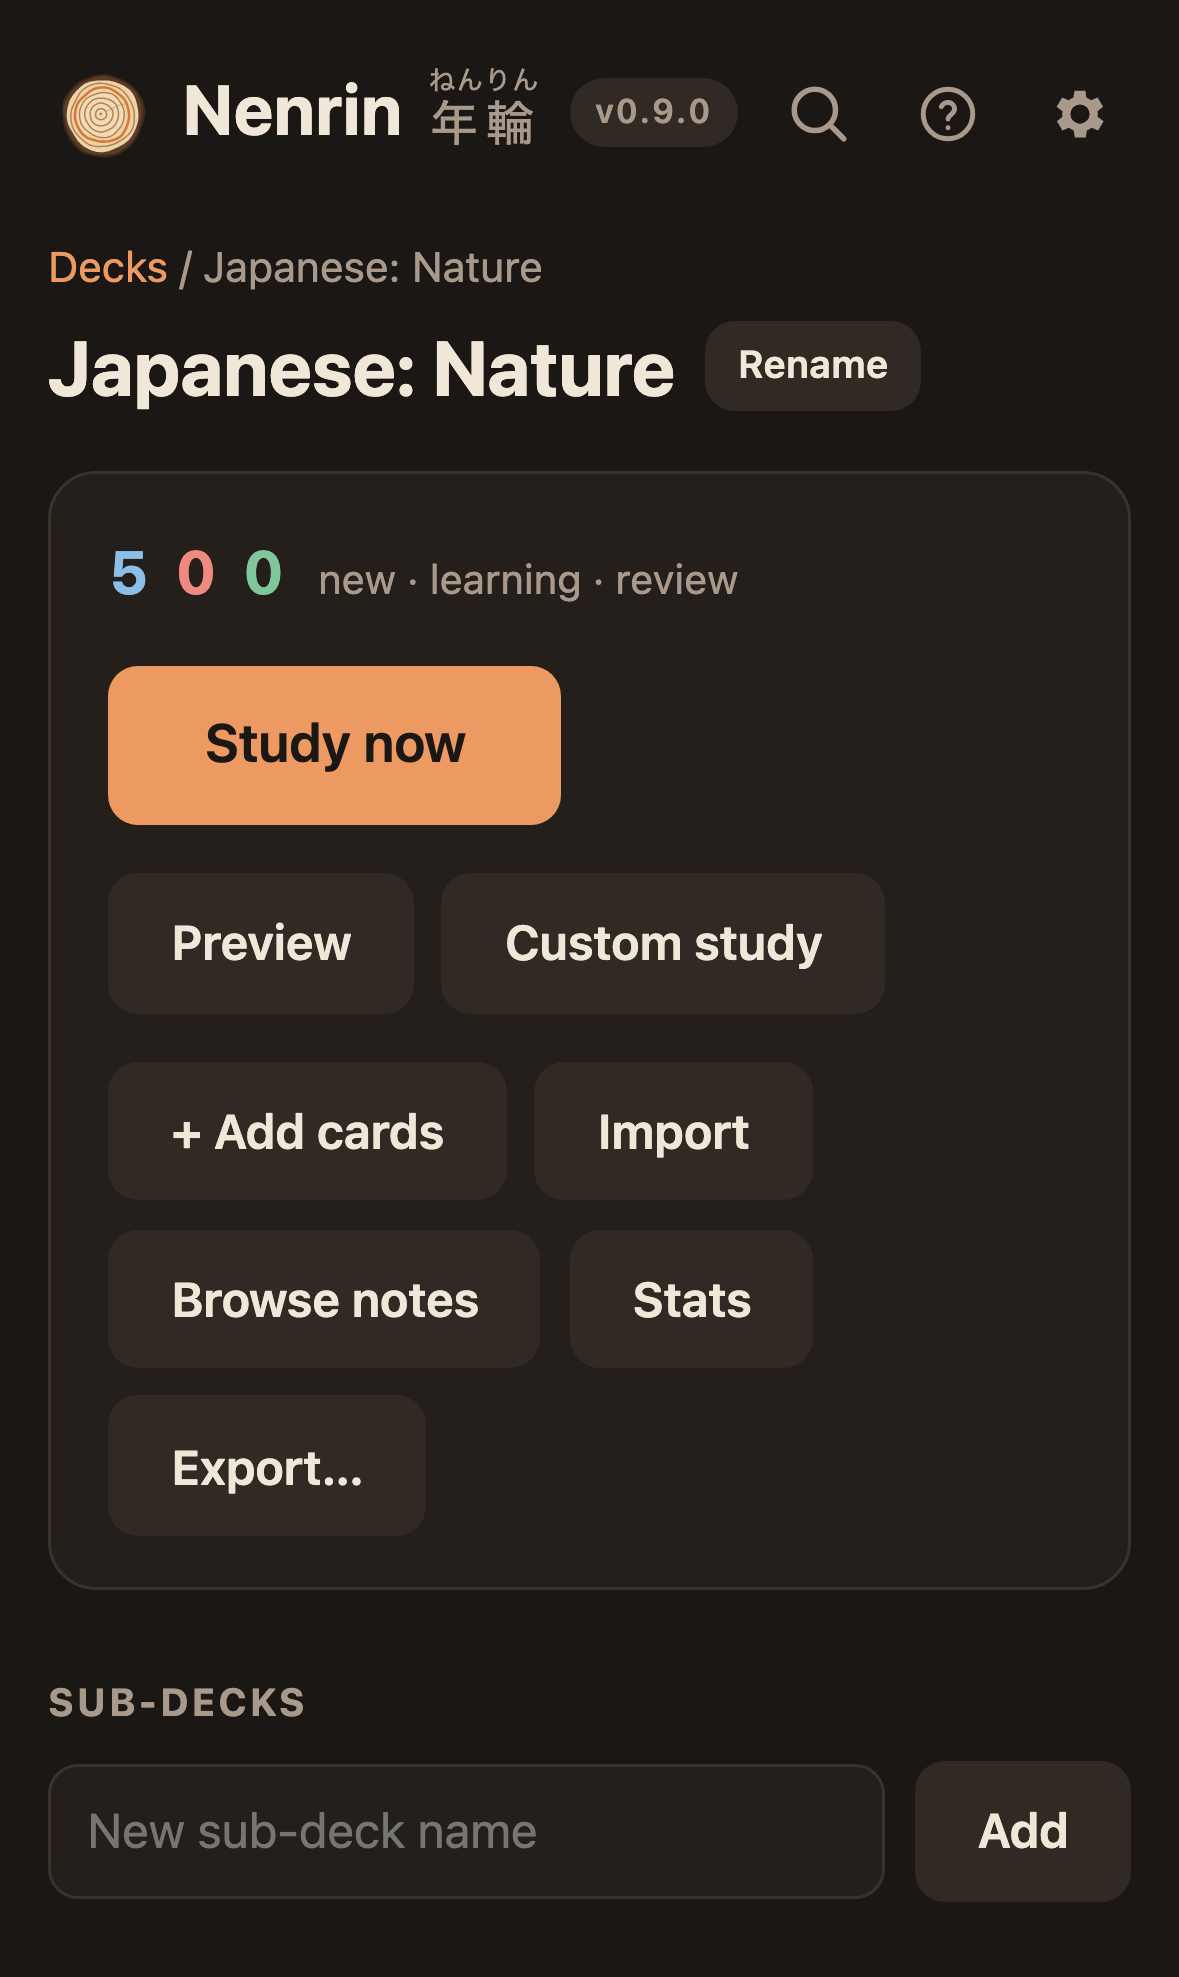
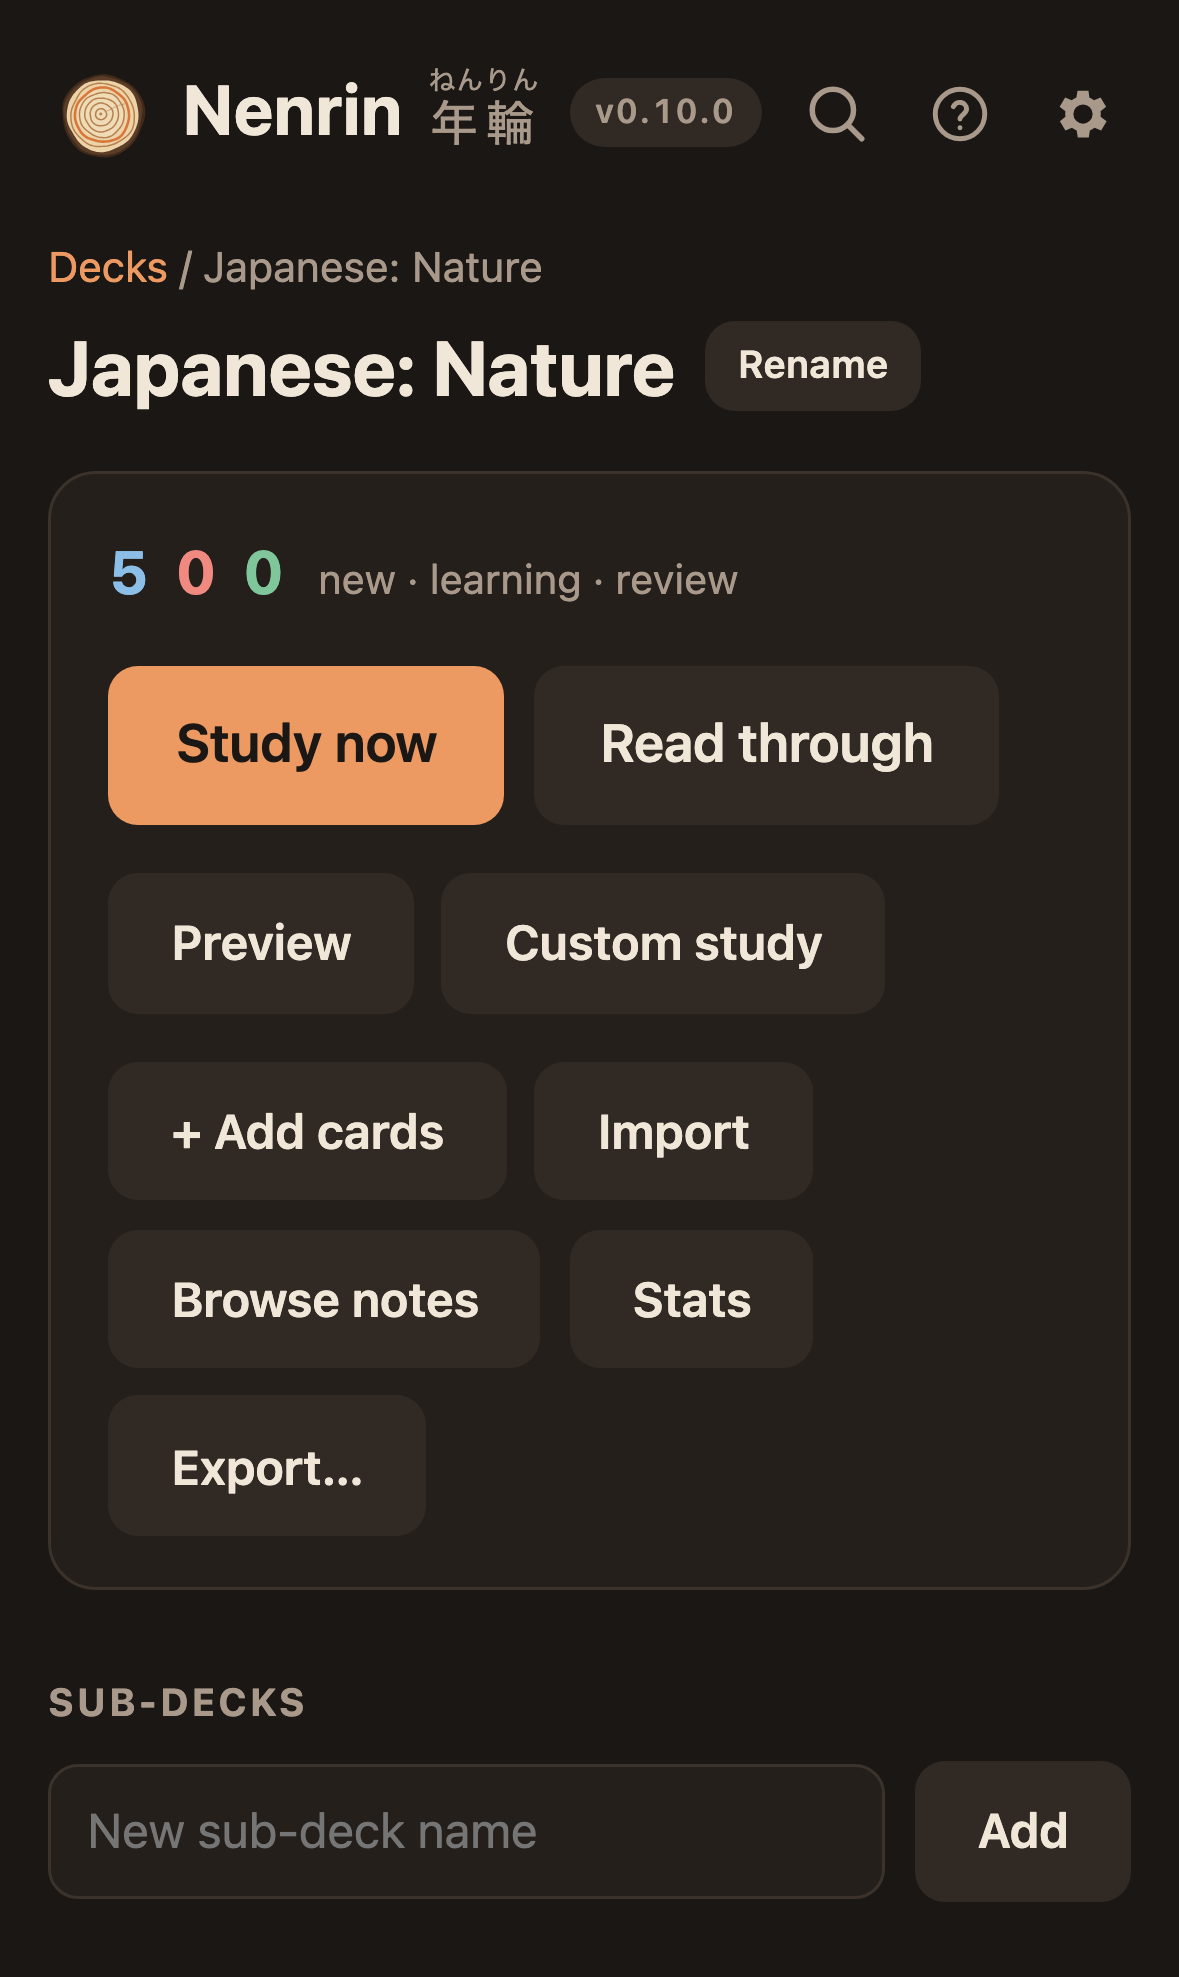
feat: read through a deck with front and back together
Read through sits next to Study now (R on a deck): a preview where every
card opens with its answer showing. B toggles both sides in any unscheduled
session, and preview sessions can now delete the current note after asking.

diff --git a/src/routes/Session.svelte b/src/routes/Session.svelte
@@ -3,6 +3,8 @@
   import CardView from '../components/CardView.svelte';
   import { db, DEFAULT_PREFS, type Card, type Prefs } from '../lib/db';
   import { getPrefs } from '../lib/db/prefs';
+  import { confirmAction } from '../lib/confirm.svelte';
+  import { deleteNote } from '../lib/notes';
   import { recordReview, undoReview, type UndoEntry } from '../lib/db/repo';
   import { navigate, router } from '../lib/router.svelte';
   import { createScheduler, GRADES, Rating, type Grade } from '../lib/scheduler';
@@ -44,6 +46,8 @@
   let content = $state<CardContent | null>(null);
   let intervals = $state<Record<Grade, string> | null>(null);
   let revealed = $state(false);
+  /** Read-through: each card opens with its answer showing. Only when nothing is scheduled. */
+  let bothSides = $state(!options.reschedule && query.get('sides') === 'both');
   /** Type-in-the-answer text for the current card. */
   let typed = $state('');
   let loading = $state(true);
@@ -54,11 +58,13 @@
 
   const finished = $derived(!loading && pos >= queue.length);
   const title = $derived(
-    options.kind === 'all'
-      ? 'Preview'
-      : options.reschedule
-        ? 'Custom study'
-        : 'Practice (not scheduled)',
+    bothSides
+      ? 'Read through'
+      : options.kind === 'all'
+        ? 'Preview'
+        : options.reschedule
+          ? 'Custom study'
+          : 'Practice (not scheduled)',
   );
 
   /** Mulberry32: a tiny seeded PRNG, so a reload or a trip to the editor keeps the shuffle. */
@@ -78,6 +84,8 @@
     const q = new URLSearchParams(query);
     q.set('seed', String(seed));
     q.set('at', String(pos));
+    if (bothSides) q.set('sides', 'both');
+    else q.delete('sides');
     return `/session/${deckId}?${q}`;
   }
 
@@ -87,7 +95,7 @@
   async function show() {
     const token = ++showToken;
     navigate(here(), { replace: true });
-    revealed = false;
+    revealed = bothSides;
     typed = '';
     if (pos >= queue.length) {
       card = null;
@@ -172,6 +180,39 @@
     if (card) navigate(`/edit/${card.noteId}?return=${encodeURIComponent(here())}`);
   }
 
+  /** Switches between flipping each card and seeing both sides at once. */
+  function toggleSides() {
+    if (options.reschedule) return;
+    bothSides = !bothSides;
+    revealed = bothSides;
+    navigate(here(), { replace: true });
+  }
+
+  /** Deletes the current note (all its cards and their history) after confirming. */
+  async function remove() {
+    if (!card || busy) return;
+    const noteId = card.noteId;
+    const ok = await confirmAction({
+      title: 'Delete note?',
+      message: 'This deletes the note and all its cards, including their review history.',
+      confirmLabel: 'Delete',
+      danger: true,
+    });
+    if (!ok) return;
+    busy = true;
+    try {
+      const gone = new Set(await db.cards.where('noteId').equals(noteId).primaryKeys());
+      await deleteNote(db, noteId);
+      pos -= queue.slice(0, pos).filter((id) => gone.has(id)).length;
+      queue = queue.filter((id) => !gone.has(id));
+      // Positions in the history no longer line up, and its reviews are gone with the note.
+      history = [];
+    } finally {
+      busy = false;
+    }
+    await show();
+  }
+
   function restart() {
     history = [];
     pos = 0;
@@ -194,7 +235,11 @@
       back();
     } else if (key === 'r') cardView?.replay();
     else if (key === 'e') edit();
-    else if (key === ' ' || key === 'enter') {
+    else if (key === 'b' && !options.reschedule) toggleSides();
+    else if (key === 'delete') {
+      e.preventDefault();
+      remove();
+    } else if (key === ' ' || key === 'enter') {
       e.preventDefault();
       if (pos >= queue.length) return;
       if (!revealed) revealed = true;
@@ -241,7 +286,18 @@
       title={options.reschedule ? 'Undo (Z)' : 'Previous (←)'}
       >{options.reschedule ? 'Undo' : '← Prev'}</button
     >
+    {#if !options.reschedule}
+      <button
+        class="secondary tool"
+        onclick={toggleSides}
+        aria-pressed={bothSides}
+        title="Show front and back together (B)">Both sides</button
+      >
+    {/if}
     <button class="secondary tool" onclick={edit} disabled={!card} title="Edit (E)">Edit</button>
+    <button class="secondary tool" onclick={remove} disabled={!card} title="Delete note (Delete)"
+      >Delete</button
+    >
     <button
       class="secondary tool kbd-button"
       onclick={() => (shortcutsDialog.open = true)}
@@ -291,7 +347,7 @@
     </section>
 
     <footer class="answer">
-      {#if !revealed}
+      {#if !revealed && !bothSides}
         <button class="show" onclick={() => (revealed = true)}>
           Show answer <kbd>Space</kbd>
         </button>
@@ -358,6 +414,10 @@
   .tool {
     padding: 0.4rem 0.7rem;
     font-size: 0.8rem;
+  }
+  .tool[aria-pressed='true'] {
+    border-color: var(--accent);
+    color: var(--accent);
   }
   .card {
     flex: 1;

diff --git a/src/routes/DeckView.svelte b/src/routes/DeckView.svelte
@@ -95,12 +95,18 @@
     for (const deckId of await deckSubtreeIds(db, id)) await updateDeckConfig(db, deckId, reset);
   }
 
-  /** S study, P preview, C custom study (Anki uses S and C on the deck overview too). */
+  /**
+   * S study, R read through, P preview, C custom study (Anki uses S and C on the deck
+   * overview too).
+   */
   function onKey(e: KeyboardEvent) {
     if (!plainKey(e) || !$data) return;
-    const to = { s: `/study/${id}`, p: `/session/${id}?kind=all`, c: `/custom/${id}` }[
-      e.key.toLowerCase()
-    ];
+    const to = {
+      s: `/study/${id}`,
+      r: `/session/${id}?kind=all&sides=both`,
+      p: `/session/${id}?kind=all`,
+      c: `/custom/${id}`,
+    }[e.key.toLowerCase()];
     if (to) {
       e.preventDefault();
       navigate(to);
@@ -165,7 +171,14 @@
       <span class="muted">new · learning · review</span>
     </div>
     {#if total > 0}
-      <a class="button big" href="#/study/{id}" title="Study (S)">Study now</a>
+      <div class="row primary">
+        <a class="button big" href="#/study/{id}" title="Study (S)">Study now</a>
+        <a
+          class="button secondary big"
+          href="#/session/{id}?kind=all&sides=both"
+          title="See each card's front and back together, to learn them (R)">Read through</a
+        >
+      </div>
     {:else if study.waitUntil}
       <p>
         Next learning card in {formatInterval(study.waitUntil - Date.now())}.
@@ -177,6 +190,13 @@
       <p><strong>Done for today.</strong> <span class="muted">Come back tomorrow.</span></p>
     {/if}
     <div class="row">
+      {#if total === 0 && (cardCount > 0 || children.length > 0)}
+        <a
+          class="button secondary"
+          href="#/session/{id}?kind=all&sides=both"
+          title="See each card's front and back together, to learn them (R)">Read through</a
+        >
+      {/if}
       <a
         class="button secondary"
         href="#/session/{id}?kind=all"
@@ -298,6 +318,10 @@
   .big {
     font-size: 1.1rem;
     padding: 0.85rem 2rem;
+  }
+  /* Study now and Read through side by side, even on a phone. */
+  .primary .big {
+    padding: 0.85rem 1.4rem;
   }
   .subdecks {
     margin: 0 0 0.75rem;

diff --git a/tests/e2e/custom-study.spec.ts b/tests/e2e/custom-study.spec.ts
@@ -49,6 +49,38 @@ test('preview a deck with the keyboard, without scheduling anything', async ({ p
   await expect(page.getByLabel('2 new, 0 learning, 0 to review')).toBeVisible();
 });
 
+test('read through a deck with both sides showing, and delete a note', async ({ page }) => {
+  await deckWithCards(page, 'Fruit', [
+    ['apple', 'ringo'],
+    ['pear', 'nashi'],
+    ['peach', 'momo'],
+  ]);
+  await page.getByRole('link', { name: 'Read through' }).click();
+  await expect(page.getByText('Read through · Fruit')).toBeVisible();
+  // Front and back together, no Show answer step.
+  await expect(page.getByText('apple')).toBeVisible();
+  await expect(page.getByText('ringo')).toBeVisible();
+  await expect(page.getByRole('button', { name: /Show answer/ })).toHaveCount(0);
+  await page.keyboard.press('Space');
+  await expect(page.getByText('nashi')).toBeVisible();
+
+  // B switches back to flipping.
+  await page.keyboard.press('b');
+  await expect(page.getByText('Preview · Fruit')).toBeVisible();
+  await expect(page.getByText('nashi')).toHaveCount(0);
+  await page.keyboard.press('b');
+  await expect(page.getByText('nashi')).toBeVisible();
+
+  // Delete asks first, then moves on to the next card.
+  await page.getByRole('button', { name: 'Delete', exact: true }).click();
+  await page.getByRole('dialog').getByRole('button', { name: 'Delete' }).click();
+  await expect(page.getByText('momo')).toBeVisible();
+  await expect(page.getByText('2 / 2')).toBeVisible();
+
+  await page.keyboard.press('Escape');
+  await expect(page.getByLabel('2 new, 0 learning, 0 to review')).toBeVisible();
+});
+
 test('custom study: extra new cards today, and a tag session', async ({ page }) => {
   await deckWithCards(page, 'Numbers', [
     ['one', 'ichi'],

diff --git a/src/lib/shortcuts.svelte.ts b/src/lib/shortcuts.svelte.ts
@@ -28,6 +28,7 @@ export const SHORTCUTS: { group: string; items: Shortcut[] }[] = [
     group: 'Decks',
     items: [
       { keys: [['S']], action: 'Study (the deck you’re on, or the one with most due)' },
+      { keys: [['R']], action: 'Read through: every card with front and back together' },
       { keys: [['P']], action: 'Preview every card in the deck' },
       { keys: [['C']], action: 'Custom study' },
     ],
@@ -56,6 +57,9 @@ export const SHORTCUTS: { group: string; items: Shortcut[] }[] = [
       { keys: [['Space'], ['Enter']], action: 'Show answer, then next card' },
       { keys: [['←'], ['→']], action: 'Previous / next card (preview)' },
       { keys: [['1']], action: 'Again: see it again later in this session' },
+      { keys: [['B']], action: 'Both sides: show front and back together (preview)' },
+      { keys: [['E']], action: 'Edit current note' },
+      { keys: [['Delete']], action: 'Delete current note (asks first)' },
     ],
   },
   {

diff --git a/PLAN.md b/PLAN.md
@@ -132,6 +132,7 @@ From the Anki manual ([importing](https://docs.ankiweb.net/manual/importing/intr
 - [x] Stats (`#/stats`, per deck or overall): review heatmap, true retention (30 days), streaks, 30-day forecast, cards by stage; hand-built SVG charts with keyboard readouts and table views; colors validated for color-blind separation in light and dark
 - [x] FSRS parameter optimization (`fsrs-browser`: fsrs-rs in WASM) on a separate cross-origin isolated page (`optimize.html`); the service worker adds COOP/COEP to that page and its worker only, so the app keeps remote images and sign-in popups working. Results saved per deck (and sub-decks), with a revert
 - [x] **Deck preview and custom study** (like Anki's): preview every card without scheduling; raise today's new/review limits; one-off sessions for new cards, forgotten cards, review ahead, or tags, in added/due/random order, either scheduled through FSRS or practice-only. Sessions live in the URL (`#/session/:deck?kind=…&seed=…&at=…`), so a reload or a trip to the editor keeps your place; no filtered decks are created
+  - [x] **Read through**: a preview with front and back shown together (`&sides=both`, R on a deck, B to toggle in any unscheduled session), offered next to Study now. Preview sessions can also delete the current note (confirmed)
 - [x] **Keyboard coverage**: Anki's keys for navigation (D/A/B/T, S study, C custom study), bury/suspend in review (`-` `=` `@` `!`, undoable), preview arrows, and arrow/J/K/X in the Browse list. All listed in the shortcuts dialog from one registry
 - [x] **Make cards with an LLM**: Settings → "Make cards with an LLM" copies a prompt (also in the palette and next to Paste in the editor) that asks any chat LLM for cards in the formats paste mode reads, with card-writing rules; and downloads the same rules as an Agent Skill (`nenrin-cards.zip` → `SKILL.md`). Nenrin sends nothing anywhere; a unit test keeps the prompt's examples in step with the paste parser
 - [x] **User docs**: a short guide for people, not contributors.

diff --git a/docs/guide/keyboard.md b/docs/guide/keyboard.md
@@ -21,6 +21,7 @@ Press <kbd>?</kbd> anywhere in Nenrin to see this list. On a Mac, <kbd>⌘</kbd>
 | Keys         | Action                                                   |
 | ------------ | -------------------------------------------------------- |
 | <kbd>S</kbd> | Study (the deck you're on, or the one with the most due) |
+| <kbd>R</kbd> | Read through: every card with front and back together    |
 | <kbd>P</kbd> | Preview every card in the deck                           |
 | <kbd>C</kbd> | Custom study                                             |
 
@@ -46,6 +47,9 @@ Press <kbd>?</kbd> anywhere in Nenrin to see this list. On a Mac, <kbd>⌘</kbd>
 | <kbd>Space</kbd> or <kbd>Enter</kbd> | Show answer, then next card               |
 | <kbd>←</kbd> <kbd>→</kbd>            | Previous / next card (preview)            |
 | <kbd>1</kbd>                         | Again: see it again later in this session |
+| <kbd>B</kbd>                         | Both sides: show front and back together  |
+| <kbd>E</kbd>                         | Edit current note                         |
+| <kbd>Delete</kbd>                    | Delete current note (asks first)          |
 
 ## Browsing
 

diff --git a/docs/guide/custom-study.md b/docs/guide/custom-study.md
@@ -6,6 +6,14 @@ On a deck, choose **Preview** (or press <kbd>P</kbd>) to flip through every card
 
 <kbd>Space</kbd> shows the answer and then moves on; <kbd>←</kbd> and <kbd>→</kbd> go back and forward; <kbd>1</kbd> (**Again**) puts the card at the end to see once more.
 
+**Edit** (<kbd>E</kbd>) opens the note and brings you back to the same card. **Delete** (<kbd>Delete</kbd>) removes the note, all its cards and their review history, after asking.
+
+## Read through
+
+To learn cards before you study them, choose **Read through** next to **Study now** (or press <kbd>R</kbd> on a deck). It's a preview where every card shows its front and back together, so <kbd>Space</kbd> or <kbd>→</kbd> just moves to the next card. Nothing is scheduled.
+
+In any preview or practice session, **Both sides** (<kbd>B</kbd>) switches between this and flipping each card.
+
 ## Custom study
 
 On a deck, choose **Custom study** (or press <kbd>C</kbd>). It's also offered when you finish a deck for the day.
